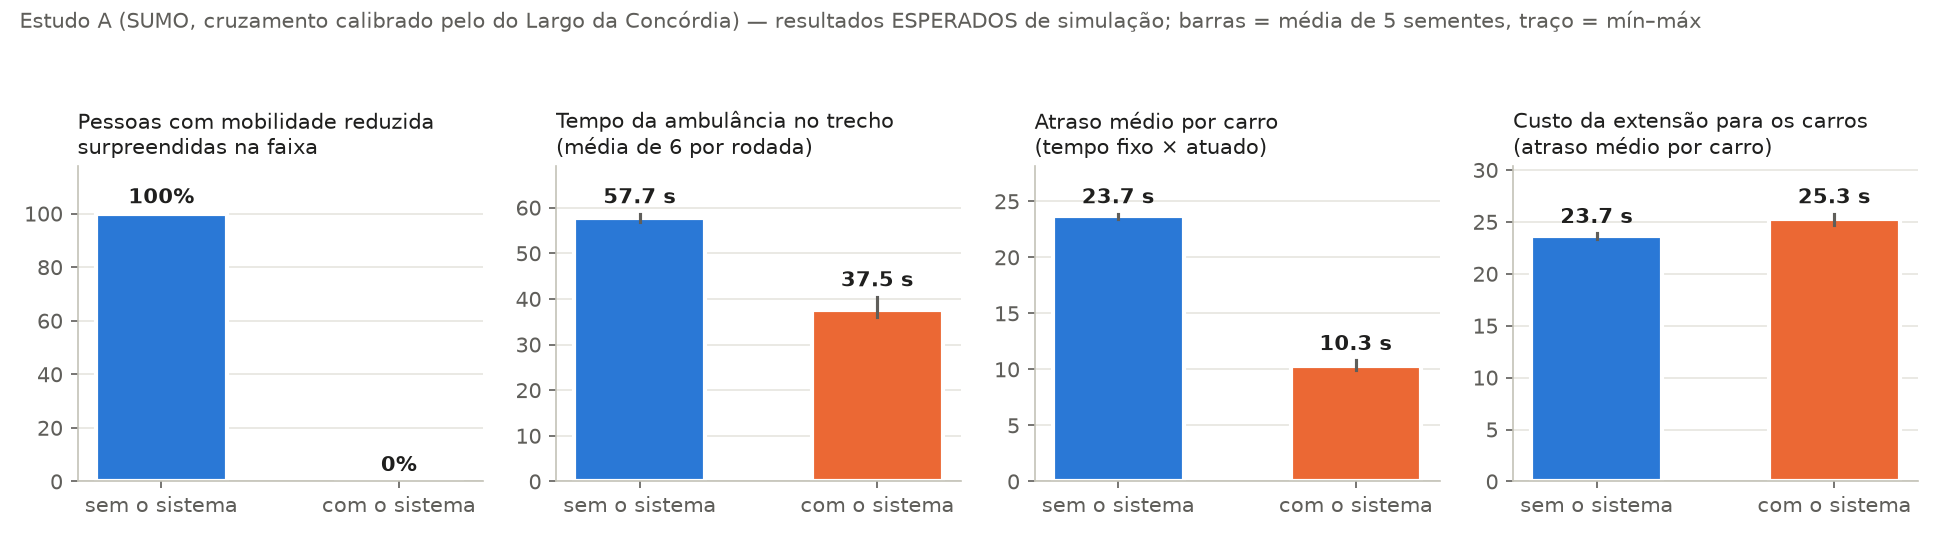
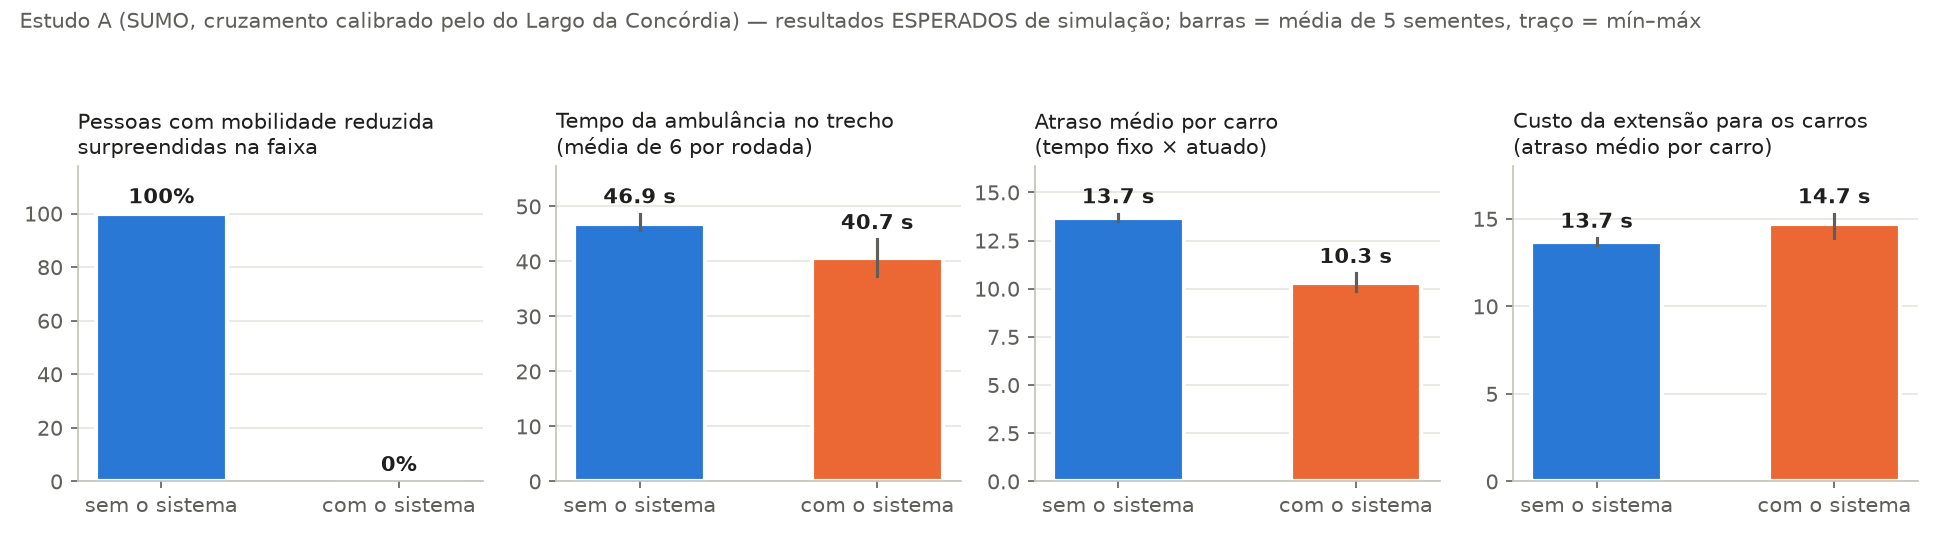
Correções da revisão conjunta: Estudo A (ordem da demanda, ciclo de 75 s) e central
Estudo A: o SUMO descartava, sem aviso, 32 de 87 pessoas nas rodadas da ambulância (demanda fora de
ordem de partida) e a regra do tempo fixo alongava as transições de 5 s (ciclo de 145 s). Números
refeitos: mobilidade reduzida 100% → 0% (+1,0 s/carro); atuado −25% de atraso; ambulância −13%,
sem aumentar pessoas surpreendidas na faixa.
Central: 'fim' da ambulância garantido mesmo se o laço pular a janela; falta de dado aparece como
'sem dado'; ao vivo usa a hora de São Paulo.
5 testes RED→GREEN; 176 rápidos + 6 SUMO passando.

diff --git a/1TIAO/GLOBAL-SOLUTION-2/src/central/central.py b/1TIAO/GLOBAL-SOLUTION-2/src/central/central.py
@@ -62,6 +62,11 @@ def entradas_demo(t: float, chuva_real: float | None, pessoas_visao: int) -> tup
     return d.Entradas(**e), quando.strftime("%H:%M")
 
 
+def agora() -> datetime:
+    """Hora de São Paulo (com fuso), qualquer que seja o fuso do computador."""
+    return datetime.now(m.FUSO)
+
+
 # ---------------------------------------------------------------- laço
 class Central:
     def __init__(self, con, publicar, risco_fn=None, agora_fn=None):
@@ -70,13 +75,20 @@ class Central:
         self.agora_fn = agora_fn or (lambda: datetime.now(m.FUSO))
         self._chave = self._alerta = None
         self._ultimo_envio = -1e9
+        self._ambulancia_aberta = False   # mandou modo ambulância e ainda não mandou o "fim"
 
     def passo(self, e: d.Entradas, t_s: float) -> d.Decisao:
         r = d.decidir(e)
+        # a ambulância saiu da decisão sem o "fim" (o passo pulou a janela de 1 s): manda o "fim" antes do novo modo
+        if self._ambulancia_aberta and r.modo != "ambulancia":
+            self.publicar(m.comando("ambulancia", fim=True))
+            self._ambulancia_aberta = False
         chave = (r.modo, r.campos.get("alagamento"), r.campos.get("faixa_ocupada"), bool(r.campos.get("fim")))
         intervalo = REENVIO_AMBULANCIA_S if "eta_s" in r.campos else REENVIO_S
         if chave != self._chave or t_s - self._ultimo_envio >= intervalo:
             enviado = bool(self.publicar(m.comando(r.modo, **r.campos)))
+            if r.modo == "ambulancia":
+                self._ambulancia_aberta = not r.campos.get("fim", False)
             self._ultimo_envio = t_s
             if (r.modo, r.campos.get("alagamento")) != self._alerta:
                 self._gravar_alerta(r, e, enviado)
@@ -132,7 +144,7 @@ def main(argv=None):
     a = p.parse_args(argv)
     con = sqlite3.connect(a.db)
     central = Central(con, _publicador(a.broker, 1883))
-    chuva_real = f.chuva_prevista_mm_h(LAT, LON, datetime.now())
+    chuva_real = f.chuva_prevista_mm_h(LAT, LON, agora())
     print(f"chuva prevista agora no Largo da Concórdia (Open-Meteo): "
           f"{'sem dado' if chuva_real is None else f'{chuva_real:.1f} mm/h'}")
     ultimo = None
@@ -144,9 +156,9 @@ def main(argv=None):
     while True:
         t = time.monotonic() - t0
         if a.ao_vivo:
-            agora = datetime.now()
+            quando = agora()
             if time.monotonic() - chuva_t > 600:
-                chuva_real, chuva_t = f.chuva_prevista_mm_h(LAT, LON, agora), time.monotonic()
+                chuva_real, chuva_t = f.chuva_prevista_mm_h(LAT, LON, quando), time.monotonic()
             amb = {}
             if a.ambulancia:
                 eta = f.eta_ambulancia(t, *a.ambulancia)
@@ -154,10 +166,9 @@ def main(argv=None):
                     amb["ambulancia_eta_s"] = eta
                 elif t < a.ambulancia[0] / (a.ambulancia[1] / 3.6) + 1:
                     amb["ambulancia_passou"] = True
-            e = d.Entradas(quando=agora, chuva_mm_h=chuva_real,
-                           pessoas_na_faixa=f.pessoas_na_faixa(con, desde=datetime.now(m.FUSO) - timedelta(minutes=1)),
-                           **amb)
-            hora = agora.strftime("%H:%M")
+            e = d.Entradas(quando=quando, chuva_mm_h=chuva_real,
+                           pessoas_na_faixa=f.pessoas_na_faixa(con, desde=quando - timedelta(minutes=1)), **amb)
+            hora = quando.strftime("%H:%M")
         else:
             if t > DURACAO_DEMO_S:
                 break

diff --git a/1TIAO/GLOBAL-SOLUTION-2/src/simulacao/estudo_a.py b/1TIAO/GLOBAL-SOLUTION-2/src/simulacao/estudo_a.py
@@ -46,7 +46,7 @@ BRACO_M = 300
 FLUXOS = [("O", "L", 900), ("L", "O", 800), ("N", "S", 250), ("S", "N", 200)]
 PEDESTRES_H = 160            # pessoas/h atravessando a avenida (as duas direções)
 FRACAO_REDUZIDA = 0.15       # parte delas com mobilidade reduzida (estimativa)
-# 6 ambulâncias por rodada, espaçadas 67 s (o ciclo tem ~90 s): chegam em momentos diferentes do semáforo
+# 6 ambulâncias por rodada, espaçadas 67 s (o ciclo tem 75 s): chegam em momentos diferentes do semáforo
 AMBULANCIAS = [(f"amb{k}", 300 + 67 * k) for k in range(6)]
 
 
@@ -93,7 +93,9 @@ def _programa_fixo():
     fases = []
     for f in logic.phases:
         dur = f.duration
-        if "G" in f.state and "y" not in f.state:
+        # só os verdes principais (as fases longas do programa estimado, 37 s); as transições de 5 s e os amarelos
+        # ficam como estão (antes, a regra alongava também as de 5 s e o ciclo ia a 145 s)
+        if f.duration > 10:
             dur = VERDE_PEDESTRE_S if any(f.state[i] in "Gg" for i in idx) else VERDE_AVENIDA_S
         fases.append(traci.trafficlight.Phase(dur, f.state, dur, dur))
     traci.trafficlight.setProgramLogic(TLS, traci.trafficlight.Logic(logic.programID, logic.type, 0, fases))
@@ -110,10 +112,12 @@ def _demanda(pasta: Path, semente: int, ambulancia: bool, duracao: int) -> Path:
     for i, (a, b, vph) in enumerate(FLUXOS):
         ET.SubElement(r, "flow", id=f"f{i}", type="carro", begin="0", end=str(duracao), vehsPerHour=str(vph),
                       **{"from": f"{a}C", "to": f"C{b}", "departLane": "best", "departSpeed": "max"})
+    # pessoas e ambulâncias entram JUNTAS, em ordem de partida: o SUMO descarta, sem aviso com --no-warnings, todo
+    # elemento que vem fora de ordem (antes, 32 de 87 pessoas sumiam nas rodadas da ambulância)
+    eventos = []
     if ambulancia:
         for aid, dep in AMBULANCIAS:
-            ET.SubElement(r, "trip", id=aid, type="ambulancia", depart=str(dep),
-                          **{"from": "OC", "to": "CL", "departLane": "best"})
+            eventos.append((float(dep), "amb", aid))
     # pedestres atravessando a avenida: da calçada norte para a sul e vice-versa
     t, n = 0.0, 0
     while True:
@@ -122,9 +126,16 @@ def _demanda(pasta: Path, semente: int, ambulancia: bool, duracao: int) -> Path:
             break
         tipo = "pedestre_reduzida" if rng.random() < FRACAO_REDUZIDA else "pedestre"
         de, para = ("NC", "CS") if rng.random() < 0.5 else ("SC", "CN")
-        p = ET.SubElement(r, "person", id=f"p{n}", type=tipo, depart=f"{t:.1f}", departPos=str(BRACO_M - 15))
-        ET.SubElement(p, "walk", arrivalPos="15", **{"from": de, "to": para})
+        eventos.append((round(t, 1), "pessoa", (f"p{n}", tipo, de, para)))
         n += 1
+    for dep, tipo_ev, dado in sorted(eventos, key=lambda e: e[0]):
+        if tipo_ev == "amb":
+            ET.SubElement(r, "trip", id=dado, type="ambulancia", depart=f"{dep:.1f}",
+                          **{"from": "OC", "to": "CL", "departLane": "best"})
+        else:
+            pid, tipo, de, para = dado
+            p = ET.SubElement(r, "person", id=pid, type=tipo, depart=f"{dep:.1f}", departPos=str(BRACO_M - 15))
+            ET.SubElement(p, "walk", arrivalPos="15", **{"from": de, "to": para})
     arq = pasta / "demanda.rou.xml"
     ET.ElementTree(r).write(arq, encoding="utf-8")
     return arq

diff --git a/1TIAO/GLOBAL-SOLUTION-2/tests/test_estudo_a.py b/1TIAO/GLOBAL-SOLUTION-2/tests/test_estudo_a.py
@@ -46,3 +46,31 @@ def test_metricas_completas_e_coerentes():
     for k in ("carros", "atraso_medio_carro_s", "co2_medio_g_por_carro", "espera_media_pedestre_s"):
         assert m[k] == m[k] and m[k] >= 0                       # não é NaN nem negativo
     assert m["carros"] > 100
+
+
+# ---------------------------------------------------------------- revisão conjunta
+@pytest.mark.slow
+def test_demanda_em_ordem_de_partida(tmp_path):
+    """Revisão: elementos fora de ordem de partida são DESCARTADOS pelo SUMO (32 de 87 pessoas na rodada da
+    ambulância). A rodada da ambulância tem de ter as mesmas pessoas que a de pedestre, mesma semente."""
+    import xml.etree.ElementTree as ET
+    rou = a._demanda(tmp_path, 1, ambulancia=True, duracao=900)
+    partidas = [float(e.get("depart", e.get("begin", 0))) for e in ET.parse(rou).getroot()
+                if e.tag in ("vehicle", "trip", "person", "flow")]
+    assert partidas == sorted(partidas)
+    amb, ped = a.rodar("ambulancia", False, 1, 900), a.rodar("pedestre", False, 1, 900)
+    assert amb["pessoas"] == ped["pessoas"]
+
+
+@pytest.mark.slow
+def test_ciclo_do_tempo_fixo_tem_cerca_de_75s():
+    """Revisão: as fases curtas de transição (5 s) não podem virar 40 s (o ciclo ia a 145 s)."""
+    a.traci.start([str(a.SUMO_PKG / "bin" / "sumo.exe"), "-n", str(a.gerar_rede("static")), "--no-warnings",
+                   "--no-step-log"])
+    try:
+        a._programa_fixo()
+        fases = a.traci.trafficlight.getAllProgramLogics(a.TLS)[0].phases
+        assert 70 <= sum(f.duration for f in fases) <= 80
+        assert sorted(f.duration for f in fases) == [3, 3, 5, 5, a.VERDE_PEDESTRE_S, a.VERDE_AVENIDA_S]
+    finally:
+        a.traci.close()

diff --git a/1TIAO/GLOBAL-SOLUTION-2/tests/test_central.py b/1TIAO/GLOBAL-SOLUTION-2/tests/test_central.py
@@ -89,3 +89,17 @@ def test_demo_usa_chuva_real_quando_chove_de_verdade():
     assert e.chuva_mm_h == 4.0 and not e.chuva_simulada
     e2, _ = c.entradas_demo(160, chuva_real=None, pessoas_visao=0)
     assert e2.chuva_simulada and e2.chuva_mm_h == 6.0
+
+
+# ---------------------------------------------------------------- revisão conjunta
+def test_fim_da_ambulancia_e_enviado_mesmo_se_o_laco_pular_a_janela(ambiente):
+    """Revisão: o 'fim' só existia numa janela de 1 s; um passo atrasado (publish lento) pulava direto para normal."""
+    ce, con, env = ambiente
+    ce.passo(d.Entradas(quando=SEG_10H, ambulancia_eta_s=3), 0)
+    ce.passo(d.Entradas(quando=SEG_10H), 6)                 # a janela do 'passou' foi pulada
+    assert [(x["modo"], x.get("fim", False)) for x in env] == [("ambulancia", False), ("ambulancia", True),
+                                                               ("normal", False)]
+
+
+def test_agora_e_horario_de_sao_paulo():
+    assert c.agora().utcoffset().total_seconds() == -3 * 3600

diff --git a/1TIAO/GLOBAL-SOLUTION-2/src/central/decisao.py b/1TIAO/GLOBAL-SOLUTION-2/src/central/decisao.py
@@ -54,4 +54,5 @@ def decidir(e: Entradas) -> Decisao:
         return Decisao("escola", {}, f"horário de entrada/saída de escola ({e.quando:%H:%M}, cenário)")
     if e.pessoas_na_faixa > 0:
         return Decisao("pedestre", {"faixa_ocupada": True}, f"visão: {e.pessoas_na_faixa} registros de pessoa na faixa")
-    return Decisao("normal", {}, "sem chuva, fora do horário de escola, sem pedestre nem ambulância")
+    chuva = "chuva: sem dado" if e.chuva_mm_h is None else "sem chuva"     # falta de dado não vira fato
+    return Decisao("normal", {}, f"{chuva}, fora do horário de escola, sem pedestre nem ambulância")

diff --git a/1TIAO/GLOBAL-SOLUTION-2/tests/test_decisao.py b/1TIAO/GLOBAL-SOLUTION-2/tests/test_decisao.py
@@ -64,3 +64,9 @@ def test_prioridade():
     assert d.decidir(E(ambulancia_eta_s=20, **tudo)).modo == "ambulancia"
     assert d.decidir(E(**tudo)).modo == "chuva"
     assert d.decidir(E(quando=SEG_7H, pessoas_na_faixa=2)).modo == "escola"
+
+
+def test_falta_de_dado_nao_vira_fato():
+    """Revisão: sem a chuva (API fora), o motivo não pode dizer 'sem chuva'."""
+    assert "sem dado" in d.decidir(E(chuva_mm_h=None)).motivo
+    assert "sem dado" not in d.decidir(E(chuva_mm_h=0.0)).motivo

diff --git a/1TIAO/GLOBAL-SOLUTION-2/docs/evidencias/estudo_a/README.md b/1TIAO/GLOBAL-SOLUTION-2/docs/evidencias/estudo_a/README.md
@@ -3,39 +3,50 @@
 Arquivos: `estudo_a_rodadas.csv` (30 rodadas), `estudo_a_resumo.csv` (média, mínimo e máximo das 5 sementes) e
 `estudo_a_comparacoes.png`. Código em `src/simulacao/`.
 
-## Resultados (média de 5 sementes; entre parênteses, mínimo–máximo)
+## Resultados (média de 5 sementes; entre parênteses, mínimo–máximo das rodadas)
+
+Ciclo do tempo fixo: 75 s (avenida 40 s, transições 5 + 3 s, pedestre 19 s, transições 5 + 3 s).
 
 | Comparação | Indicador | Sem o sistema | Com o sistema |
 |---|---|---|---|
 | Extensão para pedestre com mobilidade reduzida | pessoas surpreendidas no meio da faixa | **100%** | **0%** |
-| | atraso médio por carro | 23,7 s | 25,3 s (+1,6 s) |
-| | CO₂ por carro | 134,3 g | 137,3 g (+2,2%) |
-| Semáforo atuado (adaptativo) | atraso médio por carro | 23,7 s | **10,3 s (−57%)** |
-| | CO₂ por carro | 134,3 g | 113,8 g (−15%) |
-| | espera média do pedestre | 57,1 s | 13,8 s |
+| | atraso médio por carro | 13,7 s (13,5–13,9) | 14,7 s (13,9–15,3), +1,0 s |
+| | CO₂ por carro | 118,1 g | 120,0 g (+1,6%) |
+| Semáforo atuado (adaptativo) | atraso médio por carro | 13,7 s (13,5–13,9) | **10,3 s (9,9–10,8), −25%** |
+| | CO₂ por carro | 118,1 g | 113,8 g (−3,6%) |
+| | espera média do pedestre | 19,3 s | 13,8 s |
+| | pessoas comuns surpreendidas na faixa (por rodada) | 13,8 | 67,2 |
 | | pessoas com mobilidade reduzida surpreendidas | 100% | 100% |
-| Prioridade para ambulância | tempo médio no trecho | 57,7 s | **37,5 s (−35%)** |
-| | pior caso | 97,2 s | 42,8 s |
+| Prioridade para ambulância | tempo médio no trecho | 46,9 s | **40,7 s (−13%)** |
+| | pior caso entre todas as rodadas | 67 s | 57 s |
+| | pessoas comuns surpreendidas na faixa (por rodada) | 13,8 | 11,8 |
 
 ## Leitura
 
 - **A extensão funciona e custa pouco:** com o verde fixo de 19 s numa faixa de 16 m, **toda** pessoa a 0,8 m/s
-  é surpreendida no meio da faixa (precisa de 20 s); com a extensão, nenhuma. O custo para os carros é de 1,6 s de
-  atraso e 2% de CO₂ por veículo.
-- **O semáforo adaptativo sozinho melhora a fluidez, mas não a segurança:** reduz o atraso pela metade e o CO₂ em 15%,
-  porém os verdes curtos deixam mais pessoas no meio da faixa (inclusive todas as de mobilidade reduzida). Por isso, no
-  projeto, o adaptativo vem **junto** com a extensão do pedestre, nunca sozinho.
-- **Ambulância:** abrir o verde quando ela está a 150 m reduz o tempo médio em 35% e o pior caso pela metade, sem
-  cortar quem já está atravessando (a mesma regra do nó ESP32).
+  que começa a atravessar no verde é surpreendida no meio da faixa (precisa de 20 s); com a extensão, nenhuma. O
+  custo é de 1,0 s de atraso e 1,6% de CO₂ por veículo.
+- **O semáforo adaptativo sozinho melhora a fluidez, mas piora a segurança na faixa:** reduz o atraso em 25% e a
+  espera do pedestre, porém os verdes curtos deixam cinco vezes mais pessoas no meio da faixa (67 por rodada contra
+  14) e todas as de mobilidade reduzida. Por isso, no projeto, o adaptativo vem **junto** com a extensão.
+- **Ambulância:** abrir o verde quando ela está a 150 m reduz o tempo médio em 13% e o pior caso de 67 para 57 s,
+  sem aumentar as pessoas surpreendidas na faixa (11,8 contra 13,8 por rodada): a prioridade só é dada com a faixa
+  vazia, a mesma regra do nó ESP32.
 
 ## Limitações
 
 - Cruzamento **sintético** calibrado pelo do piloto, fluxos **estimados**; os números são esperados, não medidos.
+- As sementes variam os pedestres e a velocidade dos motoristas; os fluxos de carros (`vehsPerHour`) chegam em
+  intervalos fixos, por isso a faixa de variação do atraso é estreita.
 - No SUMO o pedestre pode começar a atravessar até o último segundo do verde (não há "vermelho piscando" que impeça
-  novas entradas, como no nó ESP32); isso infla as pessoas comuns surpreendidas, principalmente no semáforo atuado.
-- Pessoas comuns surpreendidas na faixa nas rodadas da ambulância: 4,6 por rodada sem a prioridade e 5,0 com ela
-  (a diferença vem de quem entra na faixa no mesmo passo de simulação da troca para o verde da ambulância).
+  novas entradas, como no nó ESP32); isso infla as pessoas comuns surpreendidas, sobretudo no semáforo atuado.
+- O semáforo atuado usa o programa do netconvert (verdes de até 50 s, transições de 5 s), não só o mesmo plano com
+  detectores; a comparação mede "atuado × tempo fixo calibrado", não apenas o efeito dos detectores.
+- A troca para o verde da ambulância é imediata, sem amarelo para a rua transversal.
 - Sem aprendizado por reforço (extra do plano, fora por tempo) e sem alagamento.
+- Correções feitas na revisão (17/11): a demanda passou a ser escrita em ordem de partida (antes o SUMO descartava,
+  sem aviso, 32 de 87 pessoas nas rodadas da ambulância) e o ciclo do tempo fixo voltou a 75 s (uma regra alongava
+  as transições de 5 s e o ciclo ia a 145 s). Os números acima já são os corrigidos.
 
 ## Mapa real: tentado e descartado
 
